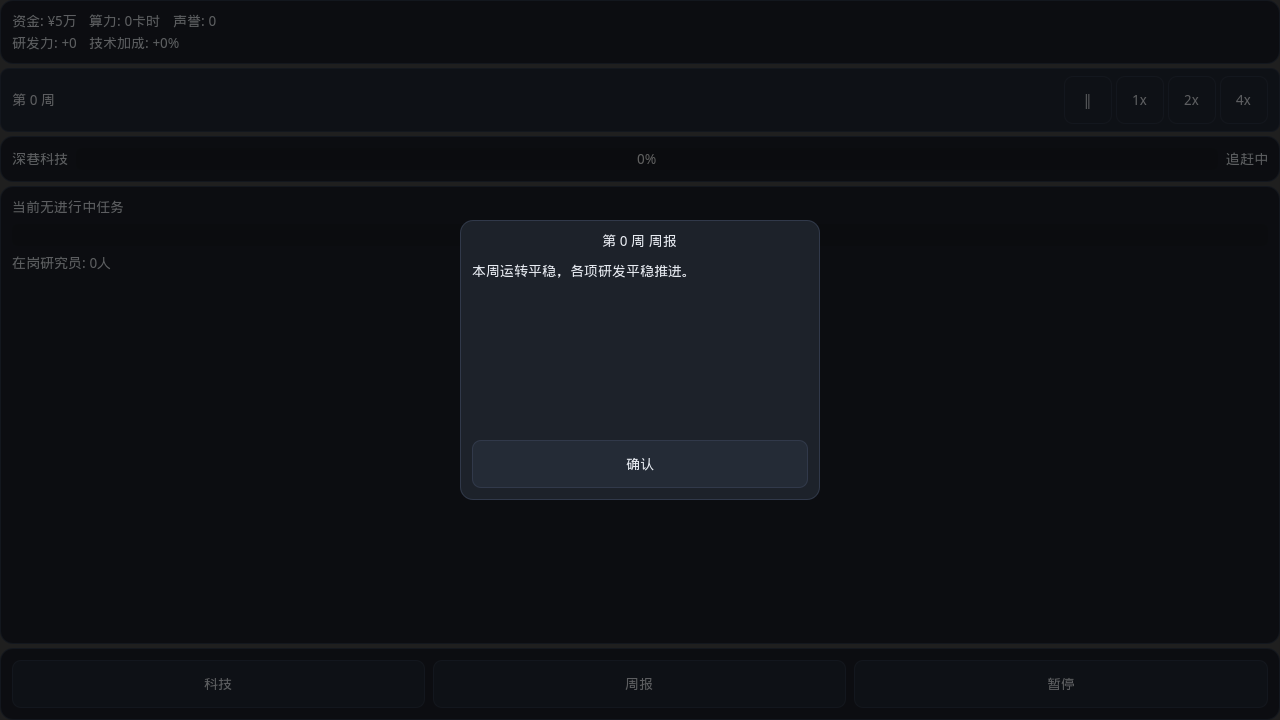
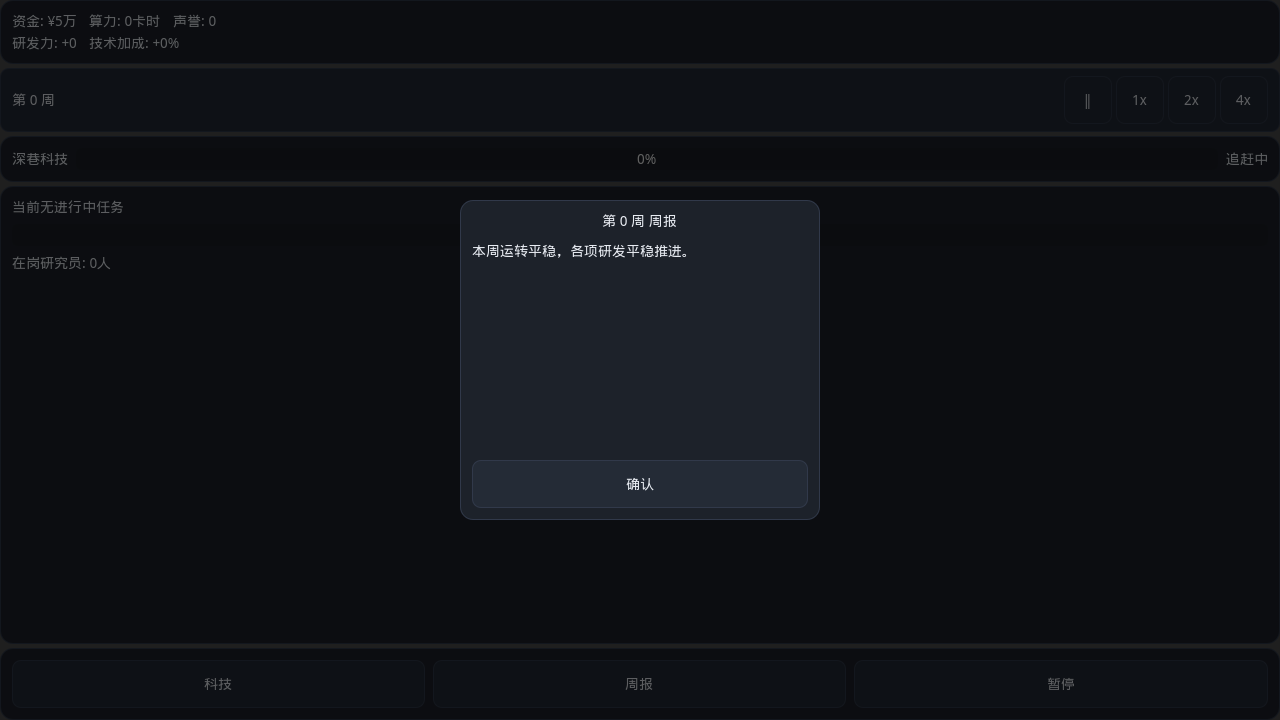
fix(ui): 对抗评审闭环（P0 弹层尺寸键 + 无效属性清理 + ADR 补强）
独立评审（引擎探针实证）三项 P0 全部闭环：
- DESIGN_SIZES 键由类名改蛇形文件名：apply() 按 resource_path 派生键
  查表，原类名键永不命中导致全弹层静默落 fallback 360x280（首轮截图
  失真根因，已重拍）；
- 删除 5 个 tscn 中 PanelContainer 不存在的 shrink_center/shrink_end
  无效属性（ClassDB 探针实证）；
- ADR-0010 补强：Apache 2.0 分支许可选择依据 / 480 基准数学 / ⏸⏳
  符号禁令 / 截图调试驱动移除条件。
P1 闭环：MIN_MODAL_SIZE 下限防极小视口塌缩；gameover 截图分支去除
无谓解暂停；shot 驱动丢弃挂起决策卡防叠层污染；测试精确断言 432 +
显式设 root 尺寸规避 GUT 64x64 污染；符号白名单入测试。

Changed region(s): [[0.3438, 0.275, 0.6562, 0.3972], [0.3438, 0.6417, 0.6562, 0.7333]]

diff --git a/docs/adr/0010-cjk-font-and-portrait-content-scale.md b/docs/adr/0010-cjk-font-and-portrait-content-scale.md
@@ -20,24 +20,31 @@ v0.1.1 在线 Pages 试玩暴露两个渲染层缺陷：
 ### D1: 内嵌文泉驿微米黑，三处收口
 
 - 资产: `assets/fonts/WQY-MicroHei.ttf`（自系统 wqy-microhei.ttc index 0 提取，
-  4.6MB，Apache 2.0 + 附带例外，许可全文随资产入库）。
+  4.6MB，许可全文随资产入库）。
+- **许可选择依据**: WQY-MicroHei 为双许可（GPL with font exception / Apache 2.0），
+  ttc index 0 为 Droid Sans Fallback 衍生的 Apache 分支——选 Apache 2.0 侧：
+  与项目 MIT 主许可兼容且无 copyleft 传染，闭源分发亦无负担。
 - 收口链: `dark_gold_theme.tres → default_font`（主链） +
   `project.godot gui/theme/custom`（原生 Window 类兜底）。
 - 防回归: `verify.sh` 字体二进制门禁（防 LFS 指针入库）+ `test_theme_font.gd`
-  （default_font 存在性 / 字形覆盖抽查 / 资产文件头 / 豁免规则）。
+  （default_font 存在性 / 汉字与 UI 符号字形覆盖抽查 / 资产文件头 / 豁免规则）。
+- **符号禁令**: WQY 无 U+23F8（⏸）/U+23F3（⏳）字形（截图实证豆腐），
+  界面符号仅限 test_theme_font 抽查表白名单（✓✕●○‖ 等）。
 
 **落选**: 思源黑体（单文件 >8MB，体积翻倍）、运行时动态加载（引入异步失败面）、
-字体子集化（缺字即豆腐，与本次事故同构，收益不抵风险）。
+字体子集化（缺字即豆腐，与本次事故同构，收益不抵风险；列为后续体积优化选项）。
 
 ### D2: 竖屏内容基准切换（1280 → 480）
 
+- 基准数学: `canvas_items+expand` 下缩放 = min(物理宽/基准宽, 物理高/基准高)。
+  1280 基准时 390×844 → scale=390/1280≈0.30（字小如蚁）；480×854 基准时
+  → scale=390/480≈0.81，逻辑视口 480×≈1039，字号恢复可读（截图实证）。
 - `ResponsiveLayoutManager.resolve_content_scale()` 纯函数：物理视口 y>x 时
-  返回 (480, 854)，否则 (1280, 720)；`main.gd` 在 `_ready` 与 RESIZED（deferred）
-  时写入 `root.content_scale_size`。
-- 390×844 → 缩放 ≈0.81，逻辑视口 480×~1039，字号恢复可读；桌面基准不变零回归。
+  返回 (480, 854)，否则 (1280, 720)；`main.gd` 在 `_ready` 与 RESIZED（deferred
+  +幂等检查）时写入 `root.content_scale_size`。
 - 弹层尺寸从"固定 offset"改为"中心锚 + custom_minimum_size + 视口 clamp"
   （`ModalSizing` 纯函数 + 脚本 `_ready` 应用 + `_on_viewport_resized` 统一刷新），
-  窄视口收敛、宽视口保持 v0.1.1 观感。
+  窄视口收敛、宽视口保持 v0.1.1 观感，并设 `MIN_MODAL_SIZE` 下限防极小窗口塌缩。
 
 **落选**: 保持 1280 基准（0.3 倍缩放不可接受）；换 `viewport` 拉伸模式
 （控件类 UI 失去缩放一致性）；竖屏基准 360（对比 480 无进一步收益，缩放≈1 反而
@@ -60,6 +67,12 @@ godot headless 导出 Web → 本地静态服务（正确 WASM MIME）→ headle
 
 **落选**: xvfb + 桌面导出（环境依赖重、且验证不了"Web 端打包后"的真实链路）；
 纯延时等待（WASM 冷启动时间方差大，盲等既慢又脆）。
+
+**调试驱动裁决**: `main.gd._setup_debug_shot_driver()`（约 30 行）仅 Web 平台且
+显式 `?shot=<id>` 查询参数时激活：冻结时钟、丢弃挂起决策卡（防叠层污染证据）、
+推目标弹层、置 `window.__DSH_SHOT_READY__` 就绪标志。正常游玩（无 query）零影响、
+无写路径、无攻击面。**移除条件**: 若未来引入正式的 e2e/试玩自动化框架并覆盖
+同等能力，应移除该驱动改走正式设施（跟踪于后续测试策略 ADR）。
 
 ## 后果
 
